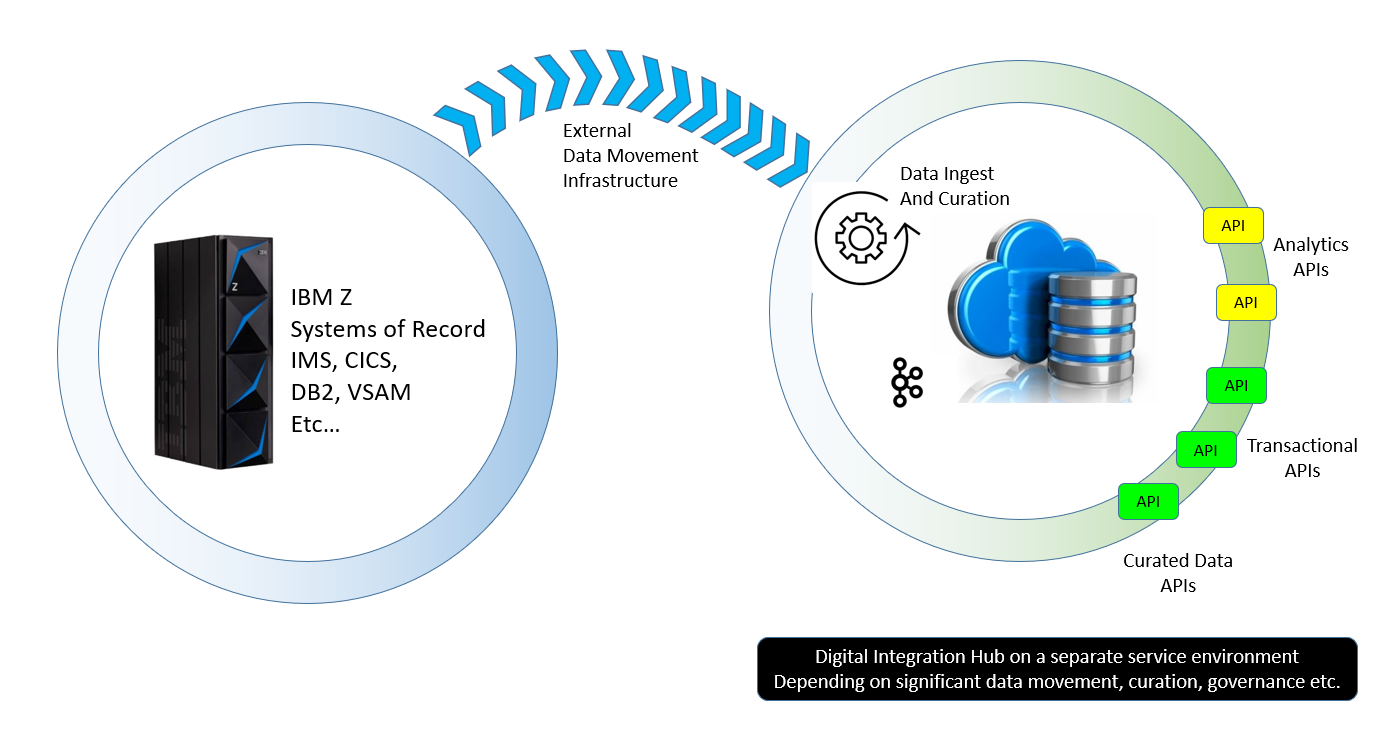
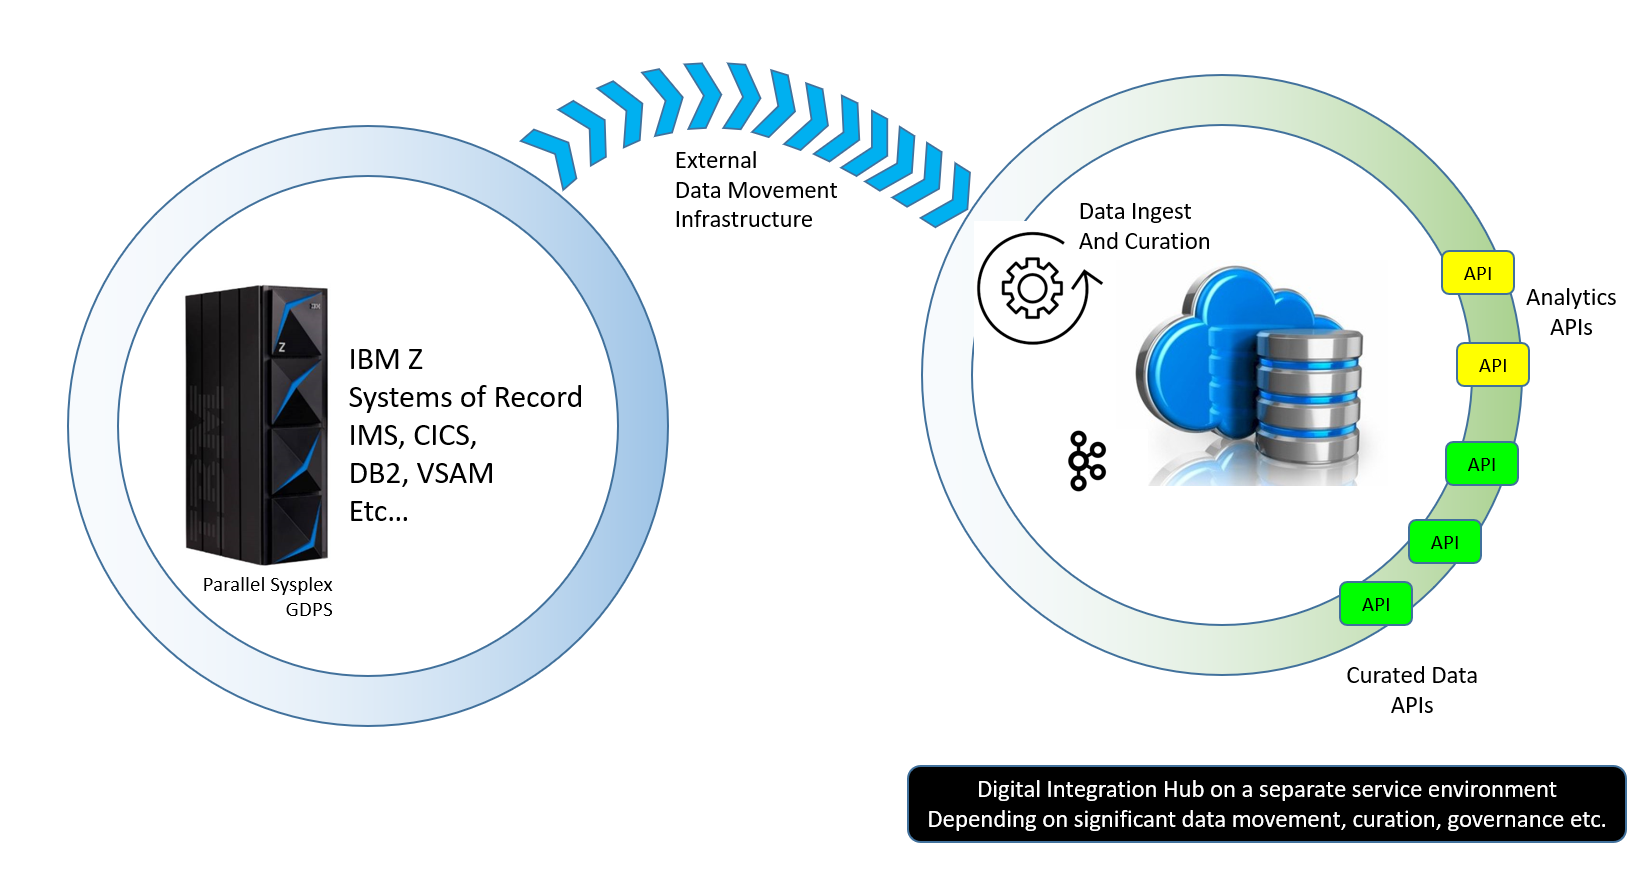
e

diff --git a/docs/eris.html b/docs/eris.html
@@ -70,13 +70,16 @@ html,body,h1,h2,h3,h4 {font-family:"Lato", sans-serif}
 
 
 <div class="w3-content w3-small w3-light-grey" style="max-width:1100px;line-height:16px;margin-bottom:20px;margin-top:20px">
-<p>The diagram below depicts two of the most popular approaches to building a data fabric that incorporates data from IBM Z systems of record. 
-A common approach is to move and replicate large amounts of data to external Digital Integration Hubs whose purpose is curate data to serve new cloud-based application services. 
-Another approach is to serve data and transactional APIs directly from IBM Z, and it is important to note that the Z-centric approach also provides for patterns of consuming data in motion to derive curated data.</p>
+<p>ERIS (Environment for Realtime Information Services) uses a combination of tools and techniques from the "Z Data in Motion" amd "Z Data at REST" patterns to provide a 
+framework for providing realtime data APIs for multiple purposes from a framework that utilises the industry-leading IBM Z hardware platform, with a combination of 
+z/OS systems of record, and containerised data and analtical solutions on Linux.</p>
 <center><img src="/recipes/images/neale/eris.png" style="width:800px"></center>
 
-<h2 style="line-height:24px;">ERIS: Environment for Realtime Information Services</h2>
-<p>xxx.</p>
+
+<p>The ERIS approach is an enabler for the Hybrid Cloud solutions that most mainframe-using enterprises seek. They want to move large portions of their business to 
+the public cloud, but need tight realtime integration with the systems of record that will continue to run on mainframe for many years to come. By deploying the now-ubiquitous 
+Digital Integration Hub building blocks on a containerised Linux for Z platform you get a free ride on all the high availability and disaster recovery infrastructure that already exists 
+for the z/OS systems of record, and you get a more secure environment for all the open source and containerised solutions used for providing digital integration APIs.</p>
 
 </div>
 

diff --git a/docs/zdim.html b/docs/zdim.html
@@ -81,8 +81,8 @@ data service APIs to support business applications on the cloud.</p>
 <p>This approach works well for applications of limited scope, where the domain of data needed to support the business applications is clearly defined and the 
 data provisioning infrastructure can be contained to manageable size and complexity. For example, personal banking apps and portals often adopt this pattern.</p>
 <p>The core technology for this pattern is data replication and/or event processing. The data movement technology itself is conceptually simple, but it carries a 
-large amount of technical debt when you consider the devops lifecycle factors including authentication, encryption, ci-cd pipelines, change control, observability, automated operations, 
-continuous service levels and so forth.</p>
+large amount of technical debt when you consider the devops lifecycle factors for data management including authentication, encryption, ci-cd pipelines, change control, observability, automated operations, 
+continuous service levels, high availability, disaster recovery and so forth.</p>
 <p>If you scale the cost, technical debt and timescales of extending the data provisioning infrastructure to include all the other data domains, it may be attractive to consider 
 alternative/additional Data Fabric patterns to address the breadth of data that you want to consume within your cloud applications. 
 The <a href="/recipes/docs/zdar.html">Z Data at REST</a> and <a href="/recipes/docs/eris.html">ERIS</a> sections describe alternative approaches that reduce or avoid the 
